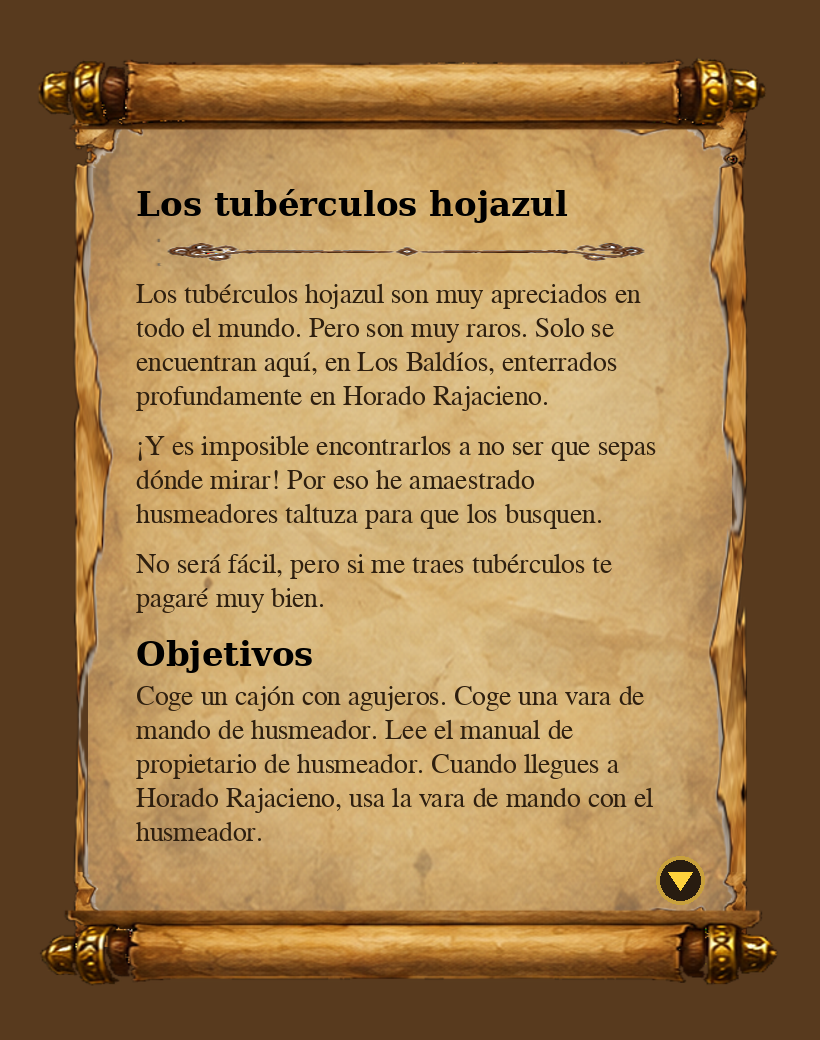
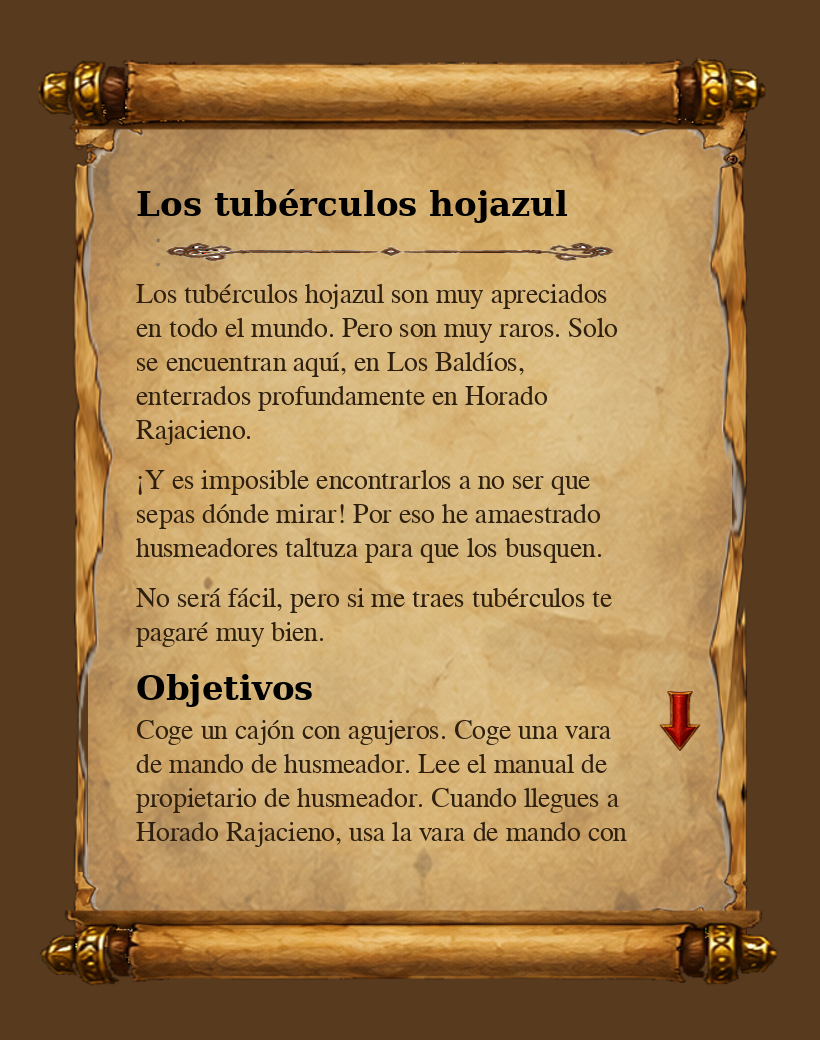
Actualizar la maqueta del panel con la flecha nueva a 4/5 de altura
Claude-Session: https://claude.ai/code/session_01JASLJ65naj8bi2YtGaxZAw

diff --git a/tools/assets/maqueta_panel.py b/tools/assets/maqueta_panel.py
@@ -37,7 +37,7 @@ d = ImageDraw.Draw(canvas)
 title = ImageFont.truetype('/usr/share/fonts/truetype/dejavu/DejaVuSerif-Bold.ttf', 17 * S)
 body = ImageFont.truetype('/usr/share/fonts/truetype/freefont/FreeSerif.ttf', 14 * S)
 INK, BLACK = (46, 31, 15), (0, 0, 0)
-x, y, width = ox + PAD * S, oy + (PAD + TOP) * S, (W - 2 * PAD - 6) * S
+x, y, width = ox + PAD * S, oy + (PAD + TOP) * S, (W - 2 * PAD - 22) * S
 clip = oy + (H - PAD - TOP) * S
 
 
@@ -75,9 +75,10 @@ y += 24 * S
 para('Coge un cajón con agujeros. Coge una vara de mando de husmeador. Lee el manual de propietario de husmeador. '
      'Cuando llegues a Horado Rajacieno, usa la vara de mando con el husmeador.', gap=0)
 
-# Flecha "hay más texto": en el hueco bajo el texto, a la derecha.
-ax, ay = ox + (W - PAD + 6 + 4 - 24) * S, clip
-d.ellipse((ax, ay, ax + 24 * S, ay + 24 * S), fill=(40, 28, 16, 230), outline=(200, 160, 60), width=2 * S)
-cx = ax + 12 * S
-d.polygon([(cx - 6 * S, ay + 8 * S), (cx + 6 * S, ay + 8 * S), (cx, ay + 17 * S)], fill=(255, 210, 60))
+# Flecha "hay más texto": siempre a 4/5 de la altura del área de texto, pegada a la derecha.
+top, right = oy + (PAD + TOP) * S, ox + (W - PAD + 6) * S
+visible = clip - top
+arrow = tex('arrow_down').resize((30 * S, 30 * S))
+cx, cy = right - 8 * S, top + int(visible * 0.8)
+canvas.alpha_composite(arrow, (cx - 15 * S, cy - 15 * S))
 canvas.convert('RGB').save('docs/maquetas/panel_registro.png')
